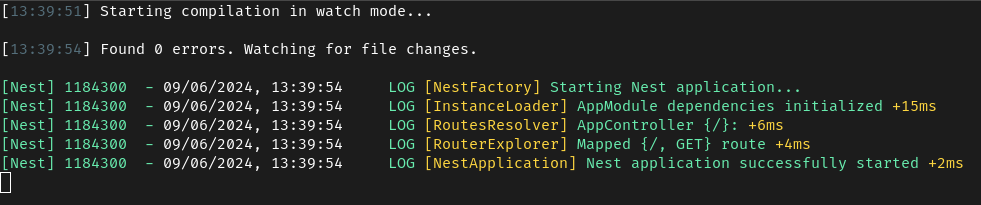
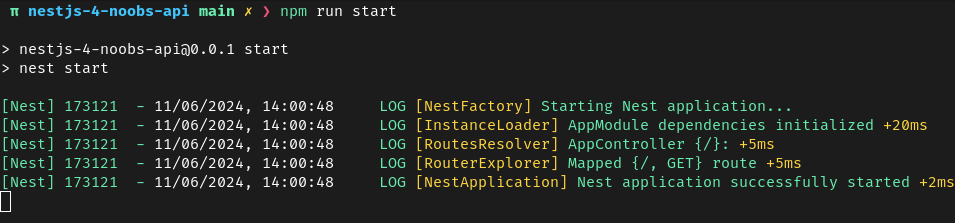
[add] fist staps

diff --git a/src/content/2-primeiros-passos.md b/src/content/2-primeiros-passos.md
@@ -1,6 +1,63 @@
 # Primeiros passos
 
-Texto
+Para criar um projeto é simples basta executar:
+
+```bash
+nest new project-name
+```
+
+O Nest CLI irá realizar uma pergunta básica de configuração relacionado ao gerenciador de pacotes que irá ser usado do por padrão aqui eu escolhi o `npm` mas fique a vontado para escolher o seu. Após a escolha o CLI irá fazer o trabalho de configurar e gerar todos os arquivos necessários para o funcionamento do projeto.
+
+![configure_nest](../images/configure_nest.png)
+
+No repositório que foi criado com o processo, são gerados arquivos de configuração relacionadas a algumas ferramentas vinculadas a aplicação, e o diretório `src` composto por arquivos escenciais para o funcionamento basico da aplicação.
+
+```txt
+src
+  |-- app.controller.spec.ts
+  |-- app.controller.ts
+  |-- app.module.ts
+  |-- app.service.ts
+  |-- main.ts
+```
+
+| Arquivo                  | Sobre                                                                                                     |
+| ------------------------ | --------------------------------------------------------------------------------------------------------- |
+| `app.controller.spec.ts` | Modulo de teste do controller                                                                             |
+| `app.controller.ts`      | Controller básico com uma rota                                                                            |
+| `app.module.ts`          | Módulo raiz da aplicação                                                                                  |
+| `app.service.ts`         | Service básico com um único método                                                                        |
+| `main.ts`                | Arquivo de entrada da aplicação que usa a função principal NestFactory para criar uma instância do Nest.  |
+
+Sendo o arquivo de entrada, o `main.ts` inclui uma função que inicializa a aplicação.
+
+```typescript
+import { NestFactory } from '@nestjs/core';
+import { AppModule } from './app.module';
+
+async function bootstrap() {
+  const app = await NestFactory.create(AppModule);
+  await app.listen(300);
+}
+bootstrap();
+```
+
+Para criar uma instancia do aplicativo Nest, a classe principal `NestFactory` que expõe métodos estaticos e permitem a criação da instancia do aplicativo. o metodo `create()` retorna um objeto que preenche a interface `INestApplication`. Este objeto fornece um conjunto de métodos que serão descritos nos próximos capítulos. No exemplo acima, simplesmente o `HTTP` é startado, e permite que o aplicativo aguarde solicitações de entrada.
+
+Para dar um start no projeto criado basta executar:
+
+```bash
+cd project-name
+npm run start
+```
+
+O sistema irá executar uma transpilação do TypeScript e excutar os endpoits criados imprimindo na tela os ativos:
+
+![start_nest](../images/start_nest.png)
+
+Agora basta acessar em seu navegador o [http://localhost:3000/](http://localhost:3000/), você deverá ver a mensagem `Hello World!` na tela.
+
+Para Executar a aplicação em modo de obsevação (watch mode) recarregando a mesma após qualquer altração no código, basta executar `npm start:dev` no terminal, esse modo auxilia o desenvolvedor e aumenta a produtividade.
 
 ---
 [<< Anterior](./1-introducao.md) [Próximo >>](./3-controllers.md)

diff --git a/src/content/1-introducao.md b/src/content/1-introducao.md
@@ -1,10 +1,10 @@
 # Introdução
 
-O Nest de acordo com a documentação oficial é um framework para contrução de aplicações Node.js do lado do servidor eficientes e escalonáveis. Usando JavaScript progressivo, é construido e possui suporte total a TypeScript, dando a liberdade também dos desenvolvedores usarem o JavaScript puro, combinando elementos de tres tipos de programação, POO (Programação Orientada a Obijetos), PF (Programação funcional) e PFR (Programação funcional reativa).
+O Nest de acordo com a documentação oficial, é um framework para contrução de aplicações Node.js do lado do servidor eficientes e escalonáveis. Usando JavaScript progressivo, é construido e possui suporte total a TypeScript, dando a liberdade também dos desenvolvedores usarem o JavaScript puro, combinando elementos de três paradigmas da programação, POO (Programação Orientada a Obijetos), PF (Programação funcional) e PFR (Programação funcional reativa).
 
-Por debaixo dos panos, o nosso famework umas como padrão o Express, mas pode ser facilmente configurado para usaro Fastfy. Sendo inspirado no framework forntend Angular o nest fornece uma arquitetura de aplicativos pronta para uso, permitindo que os desenvolvedores criem sistemas altamente testaveis, escalaveis e de fácil manutenção.
+Por debaixo dos panos, o nosso famework umas como padrão o Express, mas pode ser facilmente configurado para usar o Fastfy. Sendo inspirado no framework forntend Angular o nest fornece uma arquitetura de aplicativos pronta para uso, permitindo que os desenvolvedores criem sistemas altamente testaveis, escalaveis e de fácil manutenção.
 
-## Instalação
+## Instalação da CLI
 
 pré requisitos para o uso e instalação do Nest:
 
@@ -12,34 +12,11 @@ pré requisitos para o uso e instalação do Nest:
 2. Node.js >= 16
 3. Npm >= 8
 
-Existem diversas formas para iniciar um projeto Nest, mas o mais basico e utilizado, por ser mais prático, é usando o Nest CLI, para isso temos que instala-lo de forma global em nossa maquina com o seguinte comando:
+Existem diversas formas para iniciar um projeto Nest, mas o mais básico e utilizado (por ser mais prático) é com o Nest CLI, para isso temos que instala-lo de forma global em nossa maquina com o seguinte comando:
 
 ```bash
 npm i -g @nestjs/cli
 ```
-
-Para criar um projeto é simples basta executar:
-
-```bash
-nest new project-name
-```
-
-O Nest CLI irá realizar uma pergunta basica de configuração relacionado ao gerenciador de pacotes que irá ser usado do por padrão aqui eu escolhi o npm mas fique a vontado para escolher o seu. Após a escolha o CLI irá fazer o trabalho de configurar e gerar todos os arquivos necessários para o funcionamento do projeto.
-
-![configure_nest](../images/configure_nest.png)
-
-Para dar um start no projeto criado basta executar:
-
-```bash
-cd project-name
-npm run start:dev
-```
-
-O sistema irá executar uma transpilação do TypeScript e excutar os endpoits criados imprimindo na tela os endpoints ativos:
-
-![start_nest](../images/start_nest.png)
-
-Agora basta acessar em seu navegador o [http://localhost:3000/](http://localhost:3000/) e verá que o projeto básico do NestJS está rodando em seu local.
 
 ---
 [Próximo >>](./2-primeiros-passos.md)

diff --git a/README.md b/README.md
@@ -8,14 +8,14 @@
 
 <!--Title-->
 
-<h1 align="center">Nestjs4Noobs</h1>
+<h1 align="center">NestJS4Noobs</h1>
 
 <h1 align="center">
   <img src="src/images/logo-small-gradient.76616405.svg" alt="nestjs" width="120" />
 </h1>
 
 <p align="center">
-  Um guia que irá ajudar iniciantes começar a estudar e se aprimorar no framework nestJS.
+  Um guia que irá ajudar iniciantes começar a estudar e se aprimorar no framework NestJS.
 </p>
 
 <p align="center">
@@ -41,7 +41,7 @@ Contribuições faz com que a comunidade cresca cada vez mais e seja um lugar in
 
 1. Realize o fork do projeto
 2. Crie uma branch com a nova feature (`git checkout -b feature/sua-feature`)
-3. realize o commite (`git coimmit -m 'sua mensagem de commit'`)
+3. realize o commit (`git coimmit -m 'sua mensagem de commit'`)
 4. Realize o push na branch (`git push origin feature/sua-feature`)
 5. Abra um Pull Request
 
